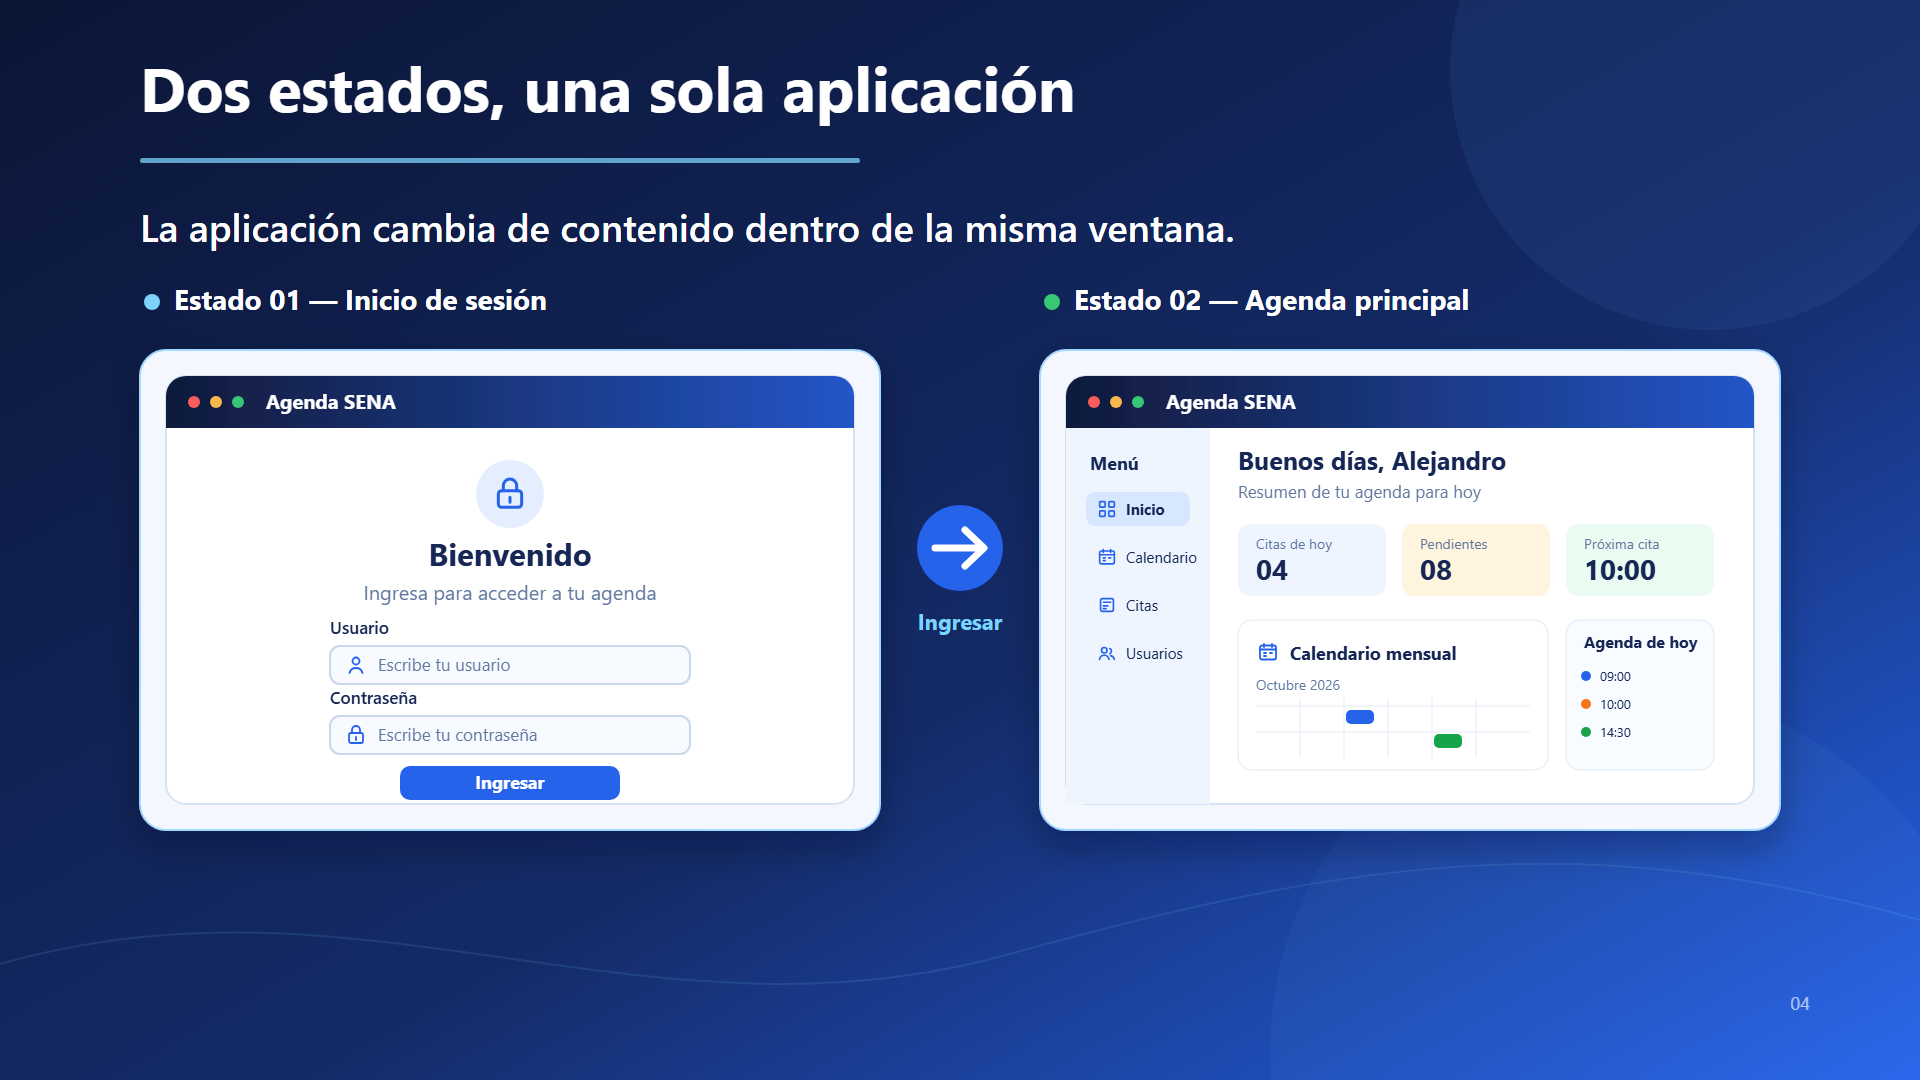
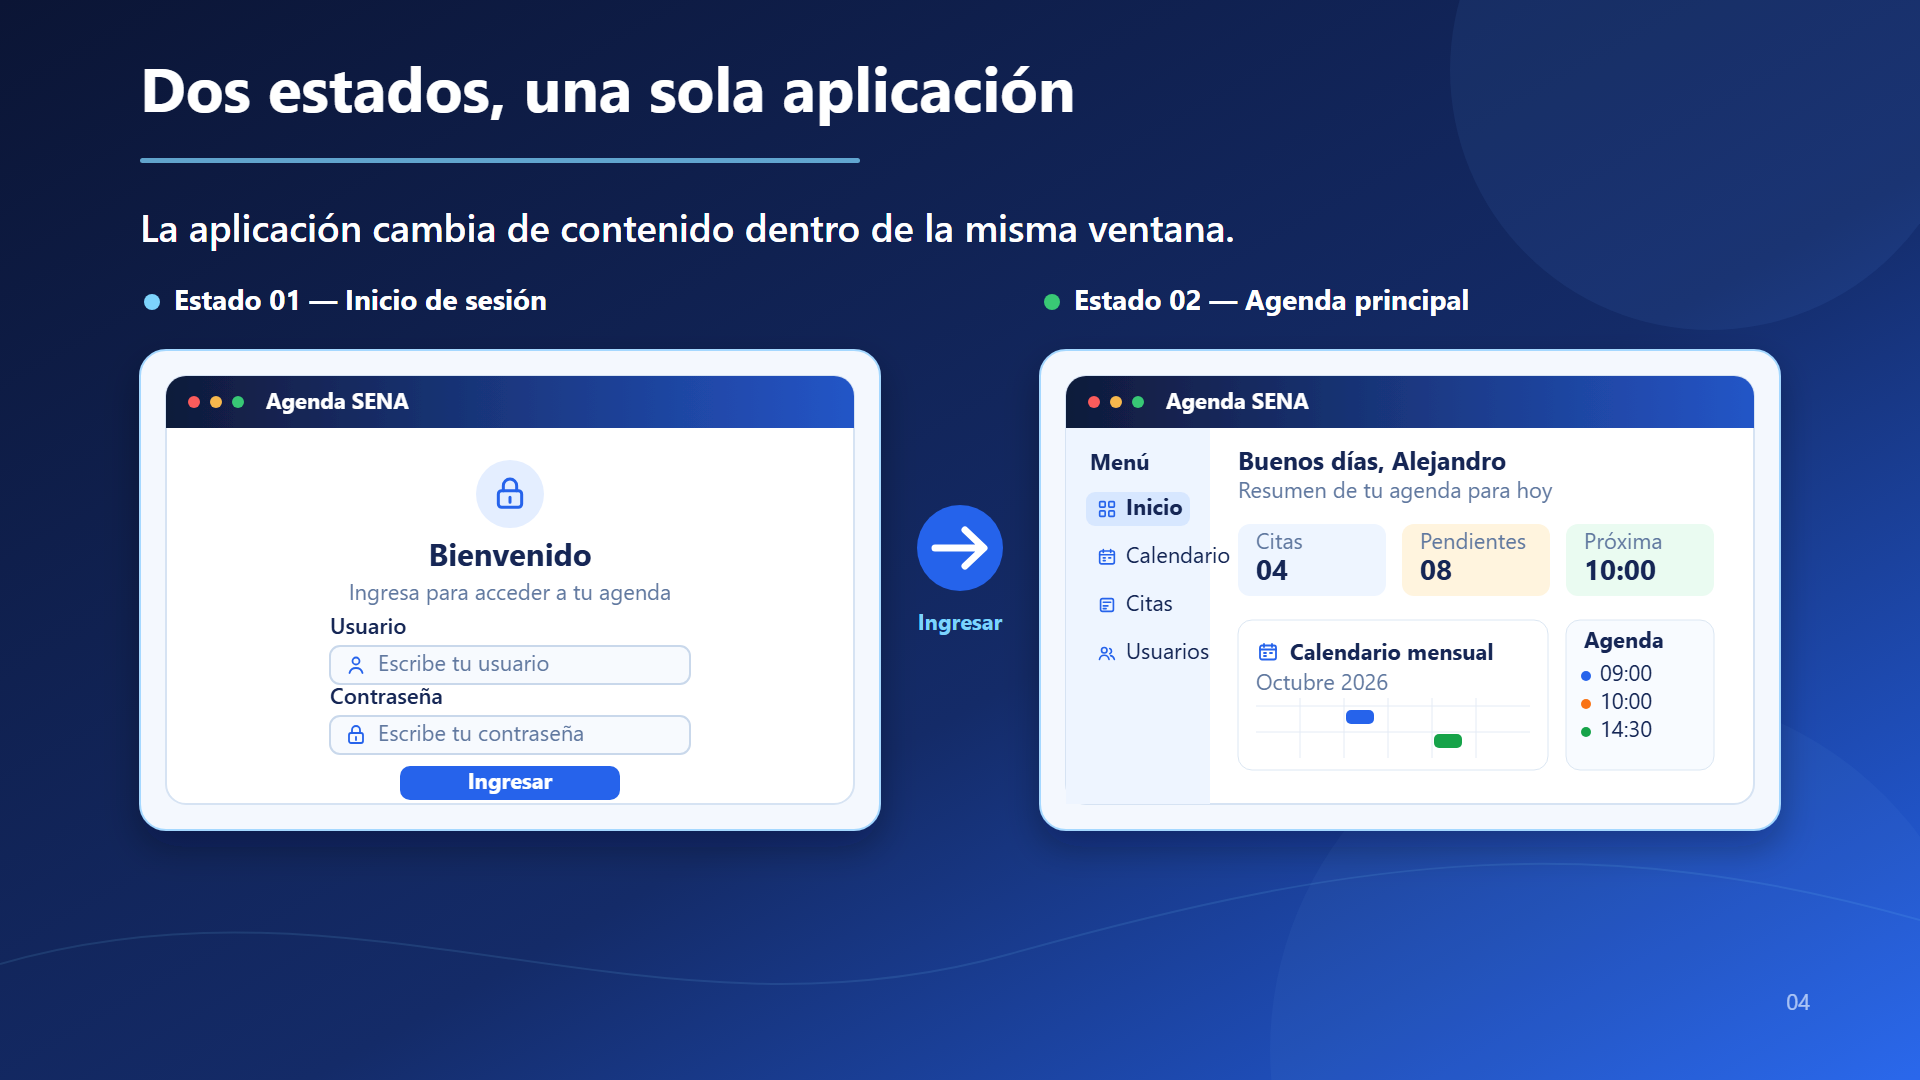
Unificar tamano minimo de texto en diapositivas

diff --git a/docs/pt/presentation.md b/docs/pt/presentation.md
@@ -40,10 +40,12 @@ iconos y la composición de cada diapositiva.
 
 - Títulos: Arial, Aptos o Inter, peso bold.
 - Texto general: Arial, Aptos o Inter, peso regular.
-- Título de diapositiva: entre 42 y 52 px.
-- Texto principal: entre 25 y 30 px.
-- Etiquetas pequeñas: entre 18 y 22 px.
-- No colocar texto pequeño dentro de las imágenes.
+- Título de diapositiva: entre 60 y 64 px.
+- Texto principal: entre 30 y 38 px.
+- Texto secundario y descripciones: mínimo 24 px.
+- Etiquetas y texto de apoyo: mínimo 22 px.
+- No usar texto visible por debajo de 22 px; si una miniatura no admite la
+  etiqueta, se debe acortar o retirar en lugar de reducir la tipografía.
 
 ### Composición común
 
